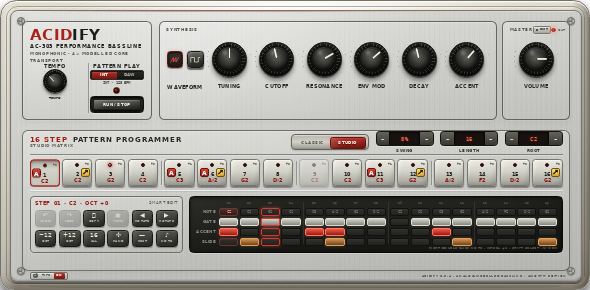
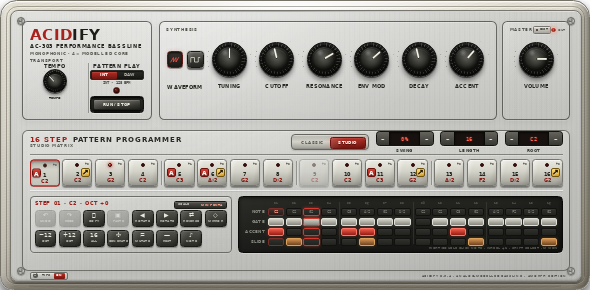
Add scale-aware Studio editing tools

Changed region(s): [[0.1831, 0.6517, 0.9153, 0.9], [0.8847, 0.8069, 0.9153, 0.8379], [0.2441, 0.7448, 0.2746, 0.7759]]

diff --git a/ACIDIFYUI.js b/ACIDIFYUI.js
@@ -36,6 +36,12 @@ const STEP_FLAG_IDS = [
 ];
 const NOTE_NAMES = ["C", "C#", "D", "D#", "E", "F", "F#", "G", "G#", "A", "A#", "B"];
 const DISTORTION_NAMES = ["PURE", "MACKIE", "PHONO"];
+const GENERATION_SCALES = [
+  { id: "minor-pentatonic", label: "MIN PENTA", degrees: [0, 3, 5, 7, 10] },
+  { id: "minor", label: "MINOR", degrees: [0, 2, 3, 5, 7, 8, 10] },
+  { id: "major", label: "MAJOR", degrees: [0, 2, 4, 5, 7, 9, 11] },
+  { id: "chromatic", label: "CHROMA", degrees: [0, 1, 2, 3, 4, 5, 6, 7, 8, 9, 10, 11] },
+];
 const TOOLTIP_STORAGE_KEY = "acidify.tooltips.enabled";
 const CONTROL_TOOLTIPS = {
   param1: "Fine-tunes the instrument by one semitone up or down. Drag or use the arrow keys; hold Shift for finer movement. Double-click to reset.",
@@ -272,6 +278,7 @@ class AcidifyPatchView extends HTMLElement {
     this._history = [];
     this._future = [];
     this._clipboard = null;
+    this._generationScaleIndex = 0;
     this._paintState = null;
     this._paramListener = null;
     this._stepListener = null;
@@ -756,6 +763,12 @@ class AcidifyPatchView extends HTMLElement {
       this._setStudioMode(!this._studioMode);
     });
 
+    this.querySelector(".studio-scale")?.addEventListener("click", () => {
+      this._generationScaleIndex = (this._generationScaleIndex + 1) % GENERATION_SCALES.length;
+      this._updateStudioToolbar();
+      this._showStudioToast(`SCALE · ${this._generationScale().label}`);
+    });
+
     this.querySelectorAll("[data-studio-action]").forEach(button => {
       button.addEventListener("click", () => {
         if (button.dataset.studioAction === "choose-note") {
@@ -1236,6 +1249,41 @@ class AcidifyPatchView extends HTMLElement {
     });
   }
 
+  _generationScale() {
+    return GENERATION_SCALES[this._generationScaleIndex] || GENERATION_SCALES[0];
+  }
+
+  _scalePitches() {
+    const pitches = [];
+    const degrees = this._generationScale().degrees;
+    for (let octave = 0; octave < 2; octave += 1) {
+      degrees.forEach(degree => pitches.push(octave * 12 + degree));
+    }
+    pitches.push(24);
+    return [...new Set(pitches)].filter(pitch => pitch >= 0 && pitch <= 24).sort((a, b) => a - b);
+  }
+
+  _nearestScalePitch(rawPitch) {
+    const pitch = clamp(Math.round(rawPitch), 0, 24);
+    return this._scalePitches().reduce((nearest, candidate) =>
+      Math.abs(candidate - pitch) < Math.abs(nearest - pitch) ? candidate : nearest
+    );
+  }
+
+  _adjacentScalePitch(rawPitch, direction) {
+    const scale = this._scalePitches();
+    const nearest = this._nearestScalePitch(rawPitch);
+    const index = scale.indexOf(nearest);
+    return scale[clamp(index + (direction < 0 ? -1 : 1), 0, scale.length - 1)];
+  }
+
+  _generatedScalePitch() {
+    const scale = this._scalePitches();
+    // Bias generation toward the lower octave while retaining the full range.
+    const shaped = Math.pow(Math.random(), 1.35);
+    return scale[Math.min(scale.length - 1, Math.floor(shaped * scale.length))];
+  }
+
   _runStudioAction(action) {
     const selected = this._selectedIndices();
     if (action === "undo") {
@@ -1289,13 +1337,68 @@ class AcidifyPatchView extends HTMLElement {
           draft[index] = source[sourcePosition];
         });
       });
-    } else if (action === "randomize") {
-      this._mutatePattern("Smart randomize", draft => {
-        selected.forEach(index => {
-          draft[index].pitch = Math.floor(Math.random() * 25);
-          draft[index].flags = 1 | (Math.random() < .28 ? 2 : 0) | (Math.random() < .2 ? 4 : 0);
+    } else if (action === "reverse") {
+      const targets = selected.length > 1 ? selected : Array.from({ length: 16 }, (_, index) => index);
+      this._mutatePattern("Reverse", draft => {
+        const source = targets.map(index => ({ ...draft[index] })).reverse();
+        targets.forEach((index, position) => {
+          draft[index] = source[position];
         });
       });
+      this._showStudioToast("ORDER REVERSED");
+    } else if (action === "pitch-mirror") {
+      const targets = selected.length > 1 ? selected : Array.from({ length: 16 }, (_, index) => index);
+      this._mutatePattern("Pitch mirror", draft => {
+        const pitches = targets.map(index => draft[index].pitch);
+        const low = Math.min(...pitches);
+        const high = Math.max(...pitches);
+        targets.forEach(index => {
+          draft[index].pitch = low + high - draft[index].pitch;
+        });
+      });
+      this._showStudioToast("PITCH CONTOUR MIRRORED");
+    } else if (action === "generate") {
+      this._mutatePattern(`Generate ${this._generationScale().label}`, draft => {
+        selected.forEach(index => {
+          const gate = Math.random() < .84;
+          const accent = gate && Math.random() < .28;
+          const slide = gate && Math.random() < .2;
+          draft[index].pitch = this._generatedScalePitch();
+          draft[index].flags = (gate ? 1 : 0) | (accent ? 2 : 0) | (slide ? 4 : 0);
+        });
+        if (selected.every(index => (draft[index].flags & 1) === 0))
+          draft[selected[0]].flags |= 1;
+      });
+      this._showStudioToast(`GENERATED · ${this._generationScale().label}`);
+    } else if (action === "mutate") {
+      this._mutatePattern(`Mutate ${this._generationScale().label}`, draft => {
+        let changed = false;
+        selected.forEach(index => {
+          const before = { ...draft[index] };
+          if (Math.random() < .35) {
+            const direction = Math.random() < .5 ? -1 : 1;
+            draft[index].pitch = this._adjacentScalePitch(draft[index].pitch, direction);
+          }
+          if (Math.random() < .1) draft[index].flags ^= 1;
+          if ((draft[index].flags & 1) !== 0) {
+            if (Math.random() < .18) draft[index].flags ^= 2;
+            if (Math.random() < .12) draft[index].flags ^= 4;
+          } else {
+            draft[index].flags &= 1;
+          }
+          if (before.pitch !== draft[index].pitch || before.flags !== draft[index].flags)
+            changed = true;
+        });
+        if (!changed) {
+          const index = selected[0];
+          const direction = draft[index].pitch >= 12 ? -1 : 1;
+          let next = this._adjacentScalePitch(draft[index].pitch, direction);
+          if (next === draft[index].pitch)
+            next = this._adjacentScalePitch(draft[index].pitch, -direction);
+          draft[index].pitch = next;
+        }
+      });
+      this._showStudioToast(`MUTATED · ${this._generationScale().label}`);
     } else if (action === "rest") {
       this._mutatePattern("Toggle rest", draft => {
         const makeGate = selected.every(index => (draft[index].flags & 1) === 0);
@@ -1320,6 +1423,14 @@ class AcidifyPatchView extends HTMLElement {
 
   _updateStudioToolbar() {
     const selected = this._selectedIndices();
+    const scale = this._generationScale();
+    const scaleButton = this.querySelector(".studio-scale");
+    const scaleValue = scaleButton?.querySelector("strong");
+    if (scaleValue) scaleValue.textContent = scale.label;
+    if (scaleButton) {
+      scaleButton.setAttribute("aria-label", `Generation scale ${scale.label}; click for next scale`);
+      scaleButton.dataset.tooltip = `Generate and Mutate currently use the root-relative ${scale.label} scale. Click to choose the next scale.`;
+    }
     const selection = this.querySelector(".studio-selection");
     if (selection) {
       const root = Math.round(this._values.get("param12") ?? 36);
@@ -1939,6 +2050,7 @@ class AcidifyPatchView extends HTMLElement {
     color: #fff1e9; text-shadow: 0 1px #5b0c08;
   }
   acidify-patch-view .studio-toggle:focus-visible,
+  acidify-patch-view .studio-scale:focus-visible,
   acidify-patch-view .stepper button:focus-visible,
   acidify-patch-view .sequence-step:focus-visible,
   acidify-patch-view .function-button:focus-visible,
@@ -2071,7 +2183,7 @@ class AcidifyPatchView extends HTMLElement {
   acidify-patch-view.studio-mode .classic-editor { display: none; }
   acidify-patch-view.studio-mode .studio-editor {
     position: relative; height: 122px; padding-top: 8px;
-    display: grid; grid-template-columns: 292px 1fr; gap: 13px;
+    display: grid; grid-template-columns: 404px 1fr; gap: 13px;
     border-top: 1px solid rgba(255,255,255,.62);
     box-shadow: inset 0 1px rgba(61,61,57,.18);
     animation: studio-enter 140ms ease-out both;
@@ -2096,8 +2208,18 @@ class AcidifyPatchView extends HTMLElement {
     font-size: 6px; letter-spacing: 1px; color: #65655e;
   }
   acidify-patch-view .studio-selection { color: #9b2019; font-size: 8px; letter-spacing: 1.25px; }
+  acidify-patch-view .studio-scale {
+    height: 16px; min-width: 105px; padding: 0 6px; cursor: pointer;
+    display: flex; align-items: center; justify-content: space-between; gap: 7px;
+    border: 1px solid #1a1a17; border-radius: 3px;
+    color: #b9b8af; background: linear-gradient(#55544e, #292925);
+    box-shadow: inset 0 1px rgba(255,255,255,.16), 0 1px rgba(255,255,255,.32);
+    font-size: 5px; font-weight: 900; letter-spacing: .55px;
+  }
+  acidify-patch-view .studio-scale strong { color: #ff9a89; font-size: 5.5px; letter-spacing: .45px; }
+  acidify-patch-view .studio-scale:active { transform: translateY(1px); }
   acidify-patch-view .studio-actions {
-    display: grid; grid-template-columns: repeat(6, 1fr); gap: 5px; align-content: start;
+    display: grid; grid-template-columns: repeat(8, 1fr); gap: 5px; align-content: start;
   }
   acidify-patch-view .studio-actions button {
     height: 34px; cursor: pointer; display: flex; flex-direction: column; align-items: center; justify-content: center;
@@ -2684,7 +2806,7 @@ class AcidifyPatchView extends HTMLElement {
     border-top: 1px solid var(--line-soft); box-shadow: none;
   }
   acidify-patch-view .editor { grid-template-columns: 160px minmax(0, 1fr) 288px; }
-  acidify-patch-view.studio-mode .studio-editor { grid-template-columns: 306px 1fr; }
+  acidify-patch-view.studio-mode .studio-editor { grid-template-columns: 404px 1fr; }
   acidify-patch-view .edit-status,
   acidify-patch-view .keyboard,
   acidify-patch-view .time-controls,
@@ -3688,7 +3810,10 @@ class AcidifyPatchView extends HTMLElement {
         <div class="studio-tools">
           <div class="studio-tool-head">
             <strong class="studio-selection">STEP 01</strong>
-            <span>SMART EDIT</span>
+            <button class="studio-scale" type="button" aria-label="Generation scale Minor Pentatonic; click for next scale"
+              data-tooltip="Generate and Mutate currently use the root-relative Minor Pentatonic scale. Click to choose the next scale.">
+              <span>SCALE</span><strong>MIN PENTA</strong>
+            </button>
           </div>
           <div class="studio-actions">
             <button data-studio-action="undo" title="Undo (Ctrl/Cmd+Z)">↶<small>UNDO</small></button>
@@ -3697,10 +3822,13 @@ class AcidifyPatchView extends HTMLElement {
             <button data-studio-action="paste" title="Paste steps">▣<small>PASTE</small></button>
             <button data-studio-action="rotate-left" title="Rotate selection left">◀<small>ROTATE</small></button>
             <button data-studio-action="rotate-right" title="Rotate selection right">▶<small>ROTATE</small></button>
+            <button data-studio-action="reverse" title="Reverse the selected step order">⇄<small>REVERSE</small></button>
+            <button data-studio-action="pitch-mirror" title="Mirror pitches inside their current range">◇<small>MIRROR</small></button>
             <button data-studio-action="transpose-down" title="Transpose octave down">−12<small>OCT</small></button>
             <button data-studio-action="transpose-up" title="Transpose octave up">+12<small>OCT</small></button>
             <button data-studio-action="select-all" title="Select all steps">16<small>ALL</small></button>
-            <button data-studio-action="randomize" title="Smart-randomize selection">✣<small>RAND</small></button>
+            <button data-studio-action="generate" title="Generate a new scale-aware phrase">✣<small>GENERATE</small></button>
+            <button data-studio-action="mutate" title="Mutate the phrase gently within the selected scale">≈<small>MUTATE</small></button>
             <button data-studio-action="rest" title="Toggle gate/rest for selection">—<small>REST</small></button>
             <button data-studio-action="choose-note" aria-haspopup="dialog"
               title="Choose an exact note for the selected steps">♪<small>NOTE</small></button>
